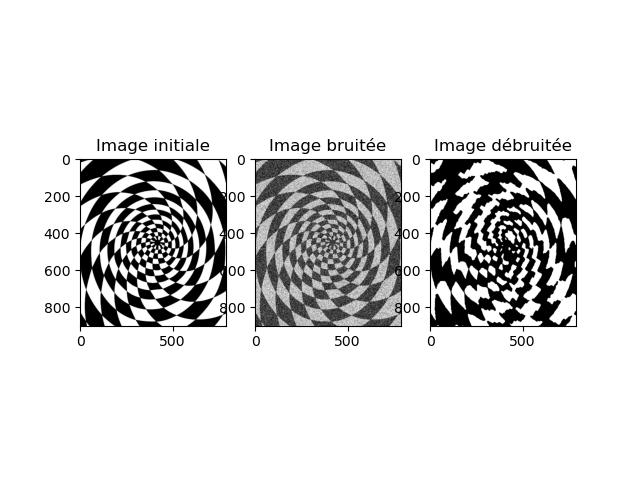
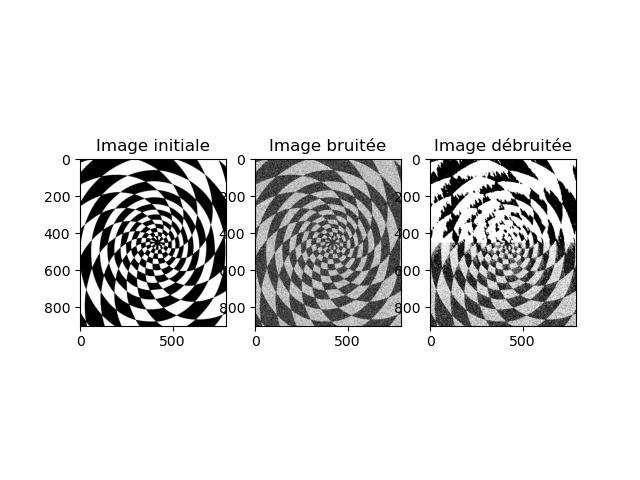
correction hyperpriors

Changed region(s): [[0.6562, 0.3125, 0.9062, 0.6875]]

diff --git a/src/gibbSamplerVariance.py b/src/gibbSamplerVariance.py
@@ -1,10 +1,11 @@
 from scipy.stats import invgamma
+import logging
 from numpy.random import default_rng
 from src.sampler import Sampler
 from typing import Optional
 import numpy as np
 import matplotlib.pyplot as plt
-from tqdm import tqdm 
+from tqdm import tqdm
 import itertools
 from .utils import CliqueSum
 
@@ -17,7 +18,14 @@ class GibbsSampler(Sampler):
         self.n_samples = n_samples
         self.burn_in = burn_in
 
-    def U(self, new_value: int, ind_pixel: tuple[int, int], img: np.ndarray, alpha: float, beta: float) -> float:
+    def U(
+        self,
+        new_value: int,
+        ind_pixel: tuple[int, int],
+        img: np.ndarray,
+        alpha: float,
+        beta: float,
+    ) -> float:
         """
         > The function `U` takes in a new value, an index of a pixel, and an image, and returns the sum
         of the new value multiplied by the alpha parameter, and the sum of the cliques multiplied by the
@@ -31,11 +39,11 @@ class GibbsSampler(Sampler):
         :type img: np.ndarray
         :return: The energy of the pixel at the given index.
         """
-        return self.alpha * new_value + self.beta * CliqueSum(
+        return alpha * new_value + beta * CliqueSum(
             new_value=new_value, ind_pixel=ind_pixel, img=img
         )
 
-    def sample(self, img: np.ndarray, gif: bool = False) -> np.ndarray:
+    def sample(self, img: np.ndarray, gif: bool = False) -> dict:
 
         """
         We start with a random image, and then we iterate over all the pixels, and for each pixel we
@@ -49,18 +57,45 @@ class GibbsSampler(Sampler):
         :type burn_in: int (optional)
         :return: The average of the samples.
         """
-        changes=[]
-        rng = default_rng()
-        L, W = img.shape
-        X = img.copy()/255.
-        tau_square = self.tau_square
-        tau_square_storage = 0. if self.tau_square is None else self.tau_square
-        alpha_storage = 0. if self.alpha is None else self.alpha
-        beta_storage = 0. if self.beta is None else self.beta
 
-        alpha = self.alpha
-        beta = self.beta
-        alpha_invgamma, beta_invgamma, lambda_alpha, lambda_beta = 2,1,1e7,1e7
+        changes = []
+        L, W = img.shape
+        X = img.copy() / 255.0
+        print(f"{np.sum(X)}")
+        tau_square = self.tau_square
+        tau_square_storage = [0.0] if self.tau_square is None else [self.tau_square]
+
+        alpha_invgamma, beta_invgamma = 2, 1
+        mu_alpha, mu_beta = 0, 1
+        sigma_square_alpha, sigma_square_beta = 1.0 / 2, 1.0 / 2
+
+        alpha = (
+            np.random.normal(mu_alpha, sigma_square_alpha)
+            if self.alpha is None
+            else self.alpha
+        )
+        beta = (
+            np.random.normal(mu_beta, sigma_square_beta)
+            if self.beta is None
+            else self.beta
+        )
+
+        alpha_storage = [alpha]
+        beta_storage = [beta]
+
+        prop_to_posterior_alpha = np.exp(
+            alpha * np.sum(X) + ((alpha - mu_alpha) ** 2) / (2 * sigma_square_alpha)
+        )
+        prop_to_posterior_beta = np.exp(
+            beta
+            * np.sum(
+                [
+                    CliqueSum(new_value=int(X[l, w]), ind_pixel=(l, w), img=X)
+                    for l, w in itertools.product(range(L), range(W))
+                ]
+            )
+            + ((beta - mu_beta) ** 2) / (2 * sigma_square_beta)
+        )
 
         if gif:
             i: int = 0
@@ -68,53 +103,141 @@ class GibbsSampler(Sampler):
             i += 1
         with tqdm(total=self.burn_in * L * W, desc="Burn in", ascii="░▒█") as bbar:
             for _ in range(self.burn_in):
-                if self.tau_square is None :
-                    a,b = alpha_invgamma + (L*W)/2, beta_invgamma + np.sum(np.square(X))/2
-                    tau_square = invgamma(a=a, scale = b).rvs()
+                if self.tau_square is None:
+                    a, b = (
+                        alpha_invgamma + (L * W) / 2,
+                        beta_invgamma + np.sum(np.square(img / 255.0 - X)) / 2,
+                    )
+                    tau_square = invgamma(a=a, scale=b).rvs()
 
-                if self.alpha or self.beta is None :
-                    mu_alpha, mu_beta = np.sum(X), np.sum([CliqueSum(new_value=X[l,w],ind_pixel=(l,w),img=X) for l, w in itertools.product(range(L), range(W))])
-                    alpha, beta = rng.exponential(lambda_alpha- mu_alpha), rng.exponential(lambda_beta-mu_beta)
-                
-                change=0
+                if self.alpha or self.beta is None:
+                    new_alpha_candidate, new_beta_candidate = (
+                        np.random.normal(mu_alpha, sigma_square_alpha),
+                        np.random.normal(mu_beta, sigma_square_beta),
+                    )
+                    new_prop_to_posterior_alpha = np.exp(
+                        new_alpha_candidate * np.sum(X)
+                        + ((new_alpha_candidate - mu_alpha) ** 2)
+                        / (2 * sigma_square_alpha)
+                    )
+                    new_prop_to_posterior_beta = np.exp(
+                        new_beta_candidate
+                        * np.sum(
+                            [
+                                CliqueSum(
+                                    new_value=int(X[l, w]), ind_pixel=(l, w), img=X
+                                )
+                                for l, w in itertools.product(range(L), range(W))
+                            ]
+                        )
+                        + ((new_beta_candidate - mu_beta) ** 2)
+                        / (2 * sigma_square_beta)
+                    )
+                    if (
+                        min(1, new_prop_to_posterior_alpha / prop_to_posterior_alpha)
+                        <= np.random.uniform()
+                    ):
+                        prop_to_posterior_alpha = new_prop_to_posterior_alpha
+                        alpha = new_alpha_candidate
+                    if (
+                        min(1, new_prop_to_posterior_beta / prop_to_posterior_beta)
+                        <= np.random.uniform()
+                    ):
+                        prop_to_posterior_beta = new_prop_to_posterior_beta
+                        beta = new_beta_candidate
+
+                change = 0
+                alpha_storage.append(alpha)
+                beta_storage.append(beta)
 
                 for l, w in itertools.product(range(L), range(W)):
-                    probas = self.getProbas(pixel=(l, w), img=X, alpha=alpha, beta=beta, tau_square=tau_square)
+                    probas = self.getProbas(
+                        pixel=(l, w),
+                        img=X,
+                        alpha=alpha,
+                        beta=beta,
+                        tau_square=tau_square,
+                    )
                     new_x = np.random.choice((0, 1), 1, p=probas)
-                    if new_x!=X[l, w]: change+=1
+                    if new_x != X[l, w]:
+                        change += 1
                     X[l, w] = new_x
                     bbar.update(1)
-                    if gif and l%10==0 and w==0:
+                    if gif and l % 10 == 0 and w == 0:
                         plt.imsave(f"data/output/gif/{i}.png", X, cmap="gray")
                         i += 1
                 changes.append(change)
 
         avg = np.zeros_like(img).astype(np.float64)
+        print(img / 255.0 - X)
         with tqdm(total=self.n_samples * L * W, desc="Sampling", ascii="░▒█") as pbar:
             for _ in range(self.n_samples):
 
-                if self.tau_square is None :
-                    a,b = alpha_invgamma + (L*W)/2, beta_invgamma + np.sum(np.square(X))/2
-                    tau_square = invgamma(a=a, scale = b).rvs()
+                if self.tau_square is None:
+                    a, b = (
+                        alpha_invgamma + (L * W) / 2,
+                        beta_invgamma + np.sum(np.square(img / 255.0 - X)) / 2,
+                    )
+                    tau_square = invgamma(a=a, scale=b).rvs()
 
+                if self.alpha or self.beta is None:
+                    new_alpha_candidate, new_beta_candidate = (
+                        np.random.normal(mu_alpha, sigma_square_alpha),
+                        np.random.normal(mu_beta, sigma_square_beta),
+                    )
+                    new_prop_to_posterior_alpha = np.exp(
+                        new_alpha_candidate * np.sum(X)
+                        + ((new_alpha_candidate - mu_alpha) ** 2)
+                        / (2 * sigma_square_alpha)
+                    )
+                    new_prop_to_posterior_beta = np.exp(
+                        new_beta_candidate
+                        * np.sum(
+                            [
+                                CliqueSum(
+                                    new_value=int(X[l, w]), ind_pixel=(l, w), img=X
+                                )
+                                for l, w in itertools.product(range(L), range(W))
+                            ]
+                        )
+                        + ((new_beta_candidate - mu_beta) ** 2)
+                        / (2 * sigma_square_beta)
+                    )
+                    if (
+                        min(1, new_prop_to_posterior_alpha / prop_to_posterior_alpha)
+                        <= np.random.uniform()
+                    ):
+                        prop_to_posterior_alpha = new_prop_to_posterior_alpha
+                        alpha = new_alpha_candidate
+                    if (
+                        min(1, new_prop_to_posterior_beta / prop_to_posterior_beta)
+                        <= np.random.uniform()
+                    ):
+                        prop_to_posterior_beta = new_prop_to_posterior_beta
+                        beta = new_beta_candidate
 
-                if self.alpha or self.beta is None :
-                    mu_alpha, mu_beta = np.sum(X), np.sum([CliqueSum(new_value=int(X[l,w]),ind_pixel=(l,w),img=X) for l, w in itertools.product(range(L), range(W))])
-                    alpha, beta = rng.exponential(lambda_alpha- mu_alpha), rng.exponential(lambda_beta-mu_beta)
+                tau_square_storage.append(tau_square)
+                alpha_storage.append(alpha)
+                beta_storage.append(beta)
 
-                tau_square_storage += float(tau_square)
-                alpha_storage += float(alpha)
-                beta_storage += float(beta)
-                
-                change=0
+                change = 0
+
                 for l, w in itertools.product(range(L), range(W)):
-                    probas = self.getProbas(pixel=(l, w), img=X, alpha=alpha, beta=beta, tau_square=tau_square)
+
+                    probas = self.getProbas(
+                        pixel=(l, w),
+                        img=X,
+                        alpha=alpha,
+                        beta=beta,
+                        tau_square=tau_square,
+                    )
                     new_x = np.random.choice((0, 1), 1, p=probas)
-                    if new_x!=X[l, w]: change+=1
+                    if new_x != X[l, w]:
+                        change += 1
                     X[l, w] = new_x
                     avg += X
                     pbar.update(1)
-                    if gif and l%20==0 and w==0:
+                    if gif and l % 20 == 0 and w == 0:
                         plt.imsave(f"data/output/gif/{i}.png", X, cmap="gray")
                         i += 1
                 changes.append(change)
@@ -125,7 +248,21 @@ class GibbsSampler(Sampler):
         avg[avg < 1.0 / 2] = 0
         avg = avg.astype(np.uint8)
 
-        plt.plot([np.log(change) if change>0 else 0 for change in changes])
+        plt.plot([np.log(change) if change > 0 else 0 for change in changes])
         plt.show()
-        plt.savefig('changes')
-        return {'img':avg, 'alpha': alpha_storage/self.n_samples, 'beta':beta_storage/(self.n_samples), 'tau_square': tau_square_storage/(self.n_samples)}
+        plt.savefig("changes")
+        return {
+            "img": avg,
+            "alpha": alpha,
+            "beta": beta,
+            "tau_square": np.mean(tau_square_storage),
+        }
+
+
+#%%
+from numpy.random import default_rng
+
+rng = default_rng()
+rng.exponential(2)
+# %%
+

diff --git a/src/utils.py b/src/utils.py
@@ -11,12 +11,37 @@ def rgb2gray(rgb):
 cliques = {
     4: [(1, 0), (0, 1), (-1, 0), (0, -1)],
     8: [(1, 0), (0, 1), (-1, 0), (0, -1), (1, 1), (-1, -1), (1, -1), (-1, 1)],
-    24 : [(1, 0), (0,1), (-1, 0), (0, -1), (1, 1), (-1, -1), (1, -1), (-1, 1), (-2, -2), (-2, -1), (-2, 0), (-2, 1), (-2, 2), (-1, -2), (-1, 2), (0, -2), (0, 2), (1, -2), (1,2), (2, -2), (2, -1), (2, 0), (2, 1), (2, 2)]
+    24: [
+        (1, 0),
+        (0, 1),
+        (-1, 0),
+        (0, -1),
+        (1, 1),
+        (-1, -1),
+        (1, -1),
+        (-1, 1),
+        (-2, -2),
+        (-2, -1),
+        (-2, 0),
+        (-2, 1),
+        (-2, 2),
+        (-1, -2),
+        (-1, 2),
+        (0, -2),
+        (0, 2),
+        (1, -2),
+        (1, 2),
+        (2, -2),
+        (2, -1),
+        (2, 0),
+        (2, 1),
+        (2, 2),
+    ],
 }
 
 
 def CliqueSum(
-    new_value: int, ind_pixel: tuple[int, int], img: np.ndarray, connex=24
+    new_value: int, ind_pixel: tuple[int, int], img: np.ndarray, connex=8
 ) -> float:
     """
     It takes a pixel value, an index, an image, and a connexity, and returns the number of pixels in the
